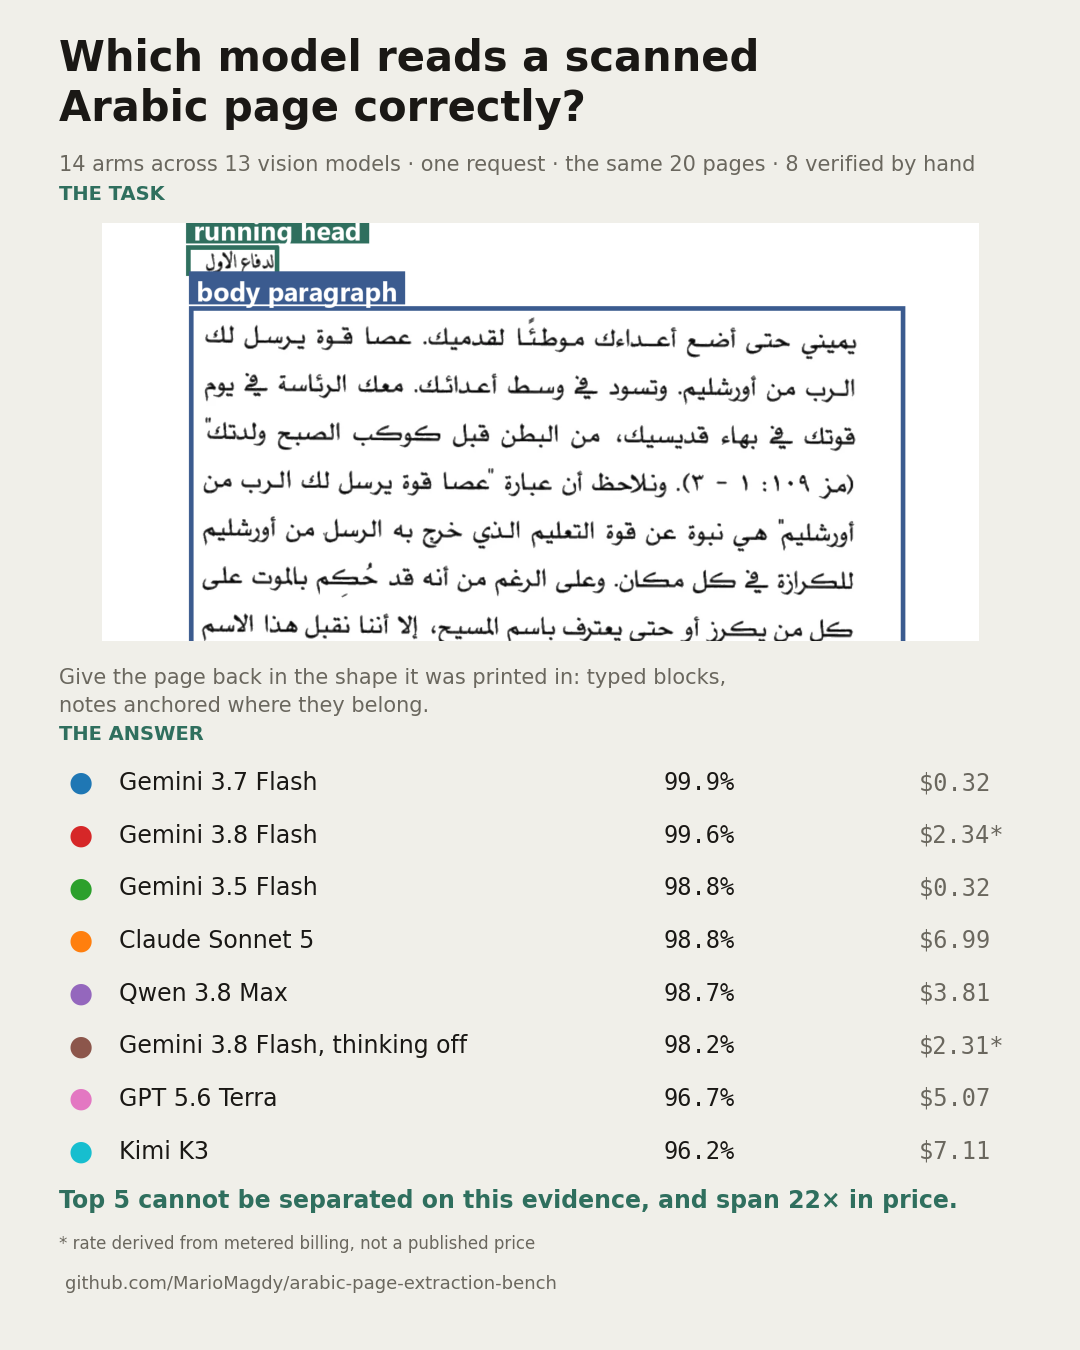
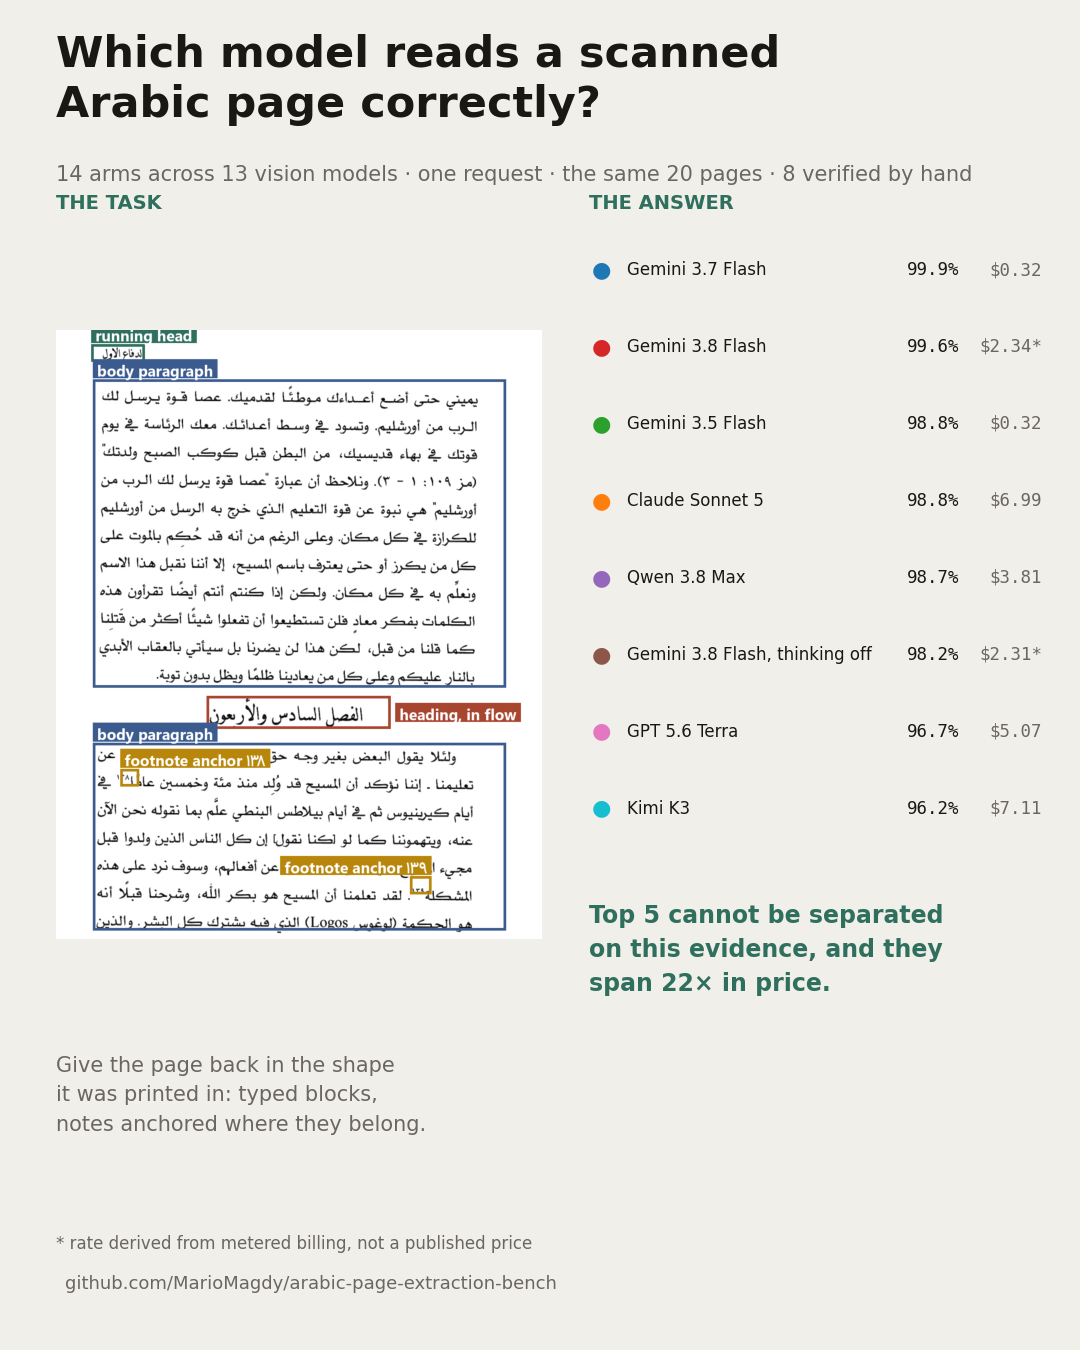
Lay the task+results composite out side by side
Ratio and arrangement are separate decisions and the stacked version conflated
them: 4:5 wins the most feed height, which says nothing about what goes beside
what. The leaf is portrait and the result is a list, so they sit in two columns.

The leaf keeps its full width. Arabic sets right to left, so the earlier crop of
the right edge was cutting the start of every line rather than the end.

Claude-Session: https://claude.ai/code/session_01CUwBfoZvbKZetVSd1QRZvr

diff --git a/tools/social.py b/tools/social.py
@@ -191,41 +191,52 @@ def slide_limits(pdf, F):
 
 
 def task_and_results(passing, F, path=None):
-    """The task and the answer in one feed-native frame.
+    """The task and the answer, side by side, in a 4:5 frame.
 
-    post-hero.png has the right idea and the wrong dimensions: it is a 1920x1080 blog header, so
-    at a 552px feed width its chart legend is unreadable. This is the same idea rebuilt portrait
-    (4:5, the tallest LinkedIn shows), with the leaf cropped to the band where the annotation
-    labels are legible and the result as rows, which survive shrinking far better than a scatter.
+    Two separate decisions, and stacking them conflated the two: 4:5 is the tallest ratio LinkedIn
+    renders, so it wins the most feed height, but that says nothing about the arrangement inside it.
+    Side by side reads better here and still fits, because the leaf is portrait and the result is a
+    list. The leaf keeps its full width: Arabic sets right to left, so cropping the right edge cuts
+    the start of every line, not the end.
     """
     W, H = 1080, 1350
     fig = page(plt.figure(figsize=(W / 100, H / 100), dpi=100))
 
-    fig.text(0.055, 0.972, "Which model reads a scanned\nArabic page correctly?",
-             fontsize=30, color=CH.INK, fontweight="semibold", va="top", linespacing=1.25)
-    fig.text(0.055, 0.885, f"{F['arms']} arms across {F['models']} vision models \u00b7 one request \u00b7 "
-                           f"the same {F['truth']} pages \u00b7 {F['gold']} verified by hand",
+    fig.text(0.052, 0.975, "Which model reads a scanned\nArabic page correctly?",
+             fontsize=31, color=CH.INK, fontweight="semibold", va="top", linespacing=1.25)
+    fig.text(0.052, 0.878, f"{F['arms']} arms across {F['models']} vision models · one request · "
+                           f"the same {F['truth']} pages · {F['gold']} verified by hand",
              fontsize=15, color=CH.MUTED, va="top")
 
-    # THE TASK: the leaf, cropped to the labelled band rather than shrunk whole
+    # left: the task. Full page width, cropped only at the foot.
+    fig.text(0.052, 0.845, "THE TASK", fontsize=14, color=CH.GOOD, fontweight="semibold")
     im = Image.open(ROOT / "assets" / "p093-annotated.png").convert("RGB")
-    im = im.crop((0, 20, im.width, 742))
-    ax = fig.add_axes([0.055, 0.525, 0.89, 0.31])
+    im = im.crop((40, 15, im.width - 20, 1836))
+    ax = fig.add_axes([0.052, 0.250, 0.45, 0.560])
     ax.imshow(im)
     ax.axis("off")
-    fig.text(0.055, 0.852, "THE TASK", fontsize=14, color=CH.GOOD, fontweight="semibold")
-    fig.text(0.055, 0.505, "Give the page back in the shape it was printed in: typed blocks,\n"
+    fig.text(0.052, 0.218, "Give the page back in the shape\nit was printed in: typed blocks,\n"
                            "notes anchored where they belong.",
-             fontsize=15, color=CH.MUTED, va="top", linespacing=1.5)
+             fontsize=15, color=CH.MUTED, va="top", linespacing=1.6)
 
-    fig.text(0.055, 0.452, "THE ANSWER", fontsize=14, color=CH.GOOD, fontweight="semibold")
-    leaderboard(fig, passing, 0.420, dy=0.039, size=17)
+    # right: the answer
+    fig.text(0.545, 0.845, "THE ANSWER", fontsize=14, color=CH.GOOD, fontweight="semibold")
+    for i, r in enumerate(passing):
+        y = 0.800 - i * 0.057
+        fig.text(0.557, y, "●", fontsize=16, color=r["c"], va="center", ha="center")
+        fig.text(0.581, y, r["name"], fontsize=12, color=CH.INK, va="center")
+        fig.text(0.888, y, f"{r['y']*100:.1f}%", fontsize=12.5, color=CH.INK, va="center", ha="right",
+                 family="DejaVu Sans Mono")
+        star = "*" if r.get("derived") else ""
+        fig.text(0.965, y, f"${r['x']:.2f}{star}", fontsize=12.5, color=CH.MUTED, va="center",
+                 ha="right", family="DejaVu Sans Mono")
+    fig.text(0.545, 0.330, f"Top {F['tied']} cannot be separated\non this evidence, and they\n"
+                           f"span {max(r['x'] for r in passing)/min(r['x'] for r in passing):.0f}× in price.",
+             fontsize=17, color=CH.GOOD, fontweight="semibold", va="top", linespacing=1.5)
+
     if any(r.get("derived") for r in passing):
-        fig.text(0.055, 0.075, "* rate derived from metered billing, not a published price",
+        fig.text(0.052, 0.075, "* rate derived from metered billing, not a published price",
                  fontsize=12, color=CH.MUTED)
-    fig.text(0.055, 0.105, f"Top {F['tied']} cannot be separated on this evidence, and span "
-                           f"{max(r['x'] for r in passing)/min(r['x'] for r in passing):.0f}\u00d7 in price.",
-             fontsize=17, color=CH.GOOD, fontweight="semibold")
     footer(fig)
     fig.savefig(path or (OUT / "task-and-results.png"), facecolor=fig.get_facecolor())
     plt.close(fig)
